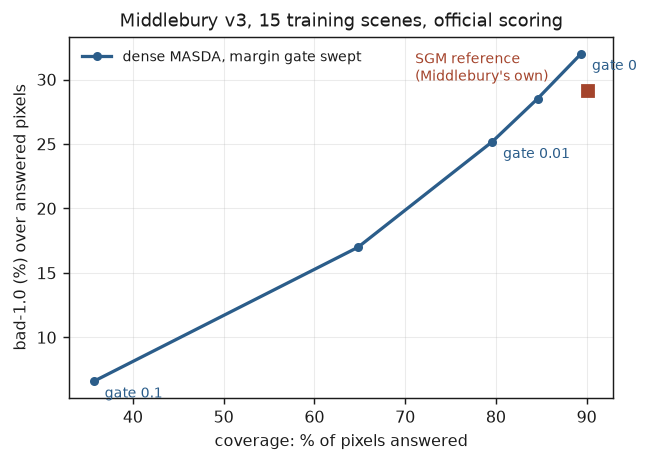
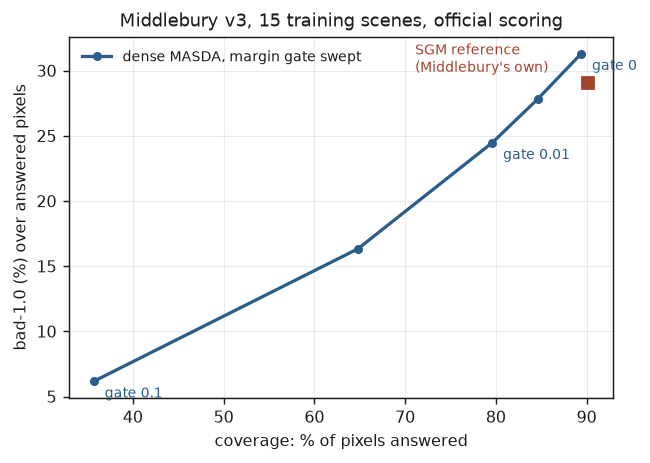
posts: the equiangular fit, the error budget, and thumbnails two orders smaller
THUMBNAILS. The index page was fetching the full-resolution figures -- 604 KB, 517 KB
and 284 KB -- and downscaling them in the browser, ~1.4 MB for three cards. Each post
now points at a dedicated 420 px quantised thumbnail: 52 KB, 33 KB and 11 KB. Also
removed ten orphaned images the rewrite had left behind (~4.3 MB), which were no
longer referenced by any post.

PART 2 gains the two results that moved since it was written.

The sub-pixel section now covers the ESTIMATOR, not just the existence of a fit. A
parabola assumes the cost is locally quadratic; the graded score's truncated absolute
difference is piecewise linear, so the surface around the winner is a V. The
equiangular estimator is the same arithmetic:

  parabola                       25.18 bad-1.0, 79.6% coverage
  equiangular (now default)      24.47           79.6%
  equiangular, Census only       23.75           79.8%

And a new section 6 itemises where a far-field pixel is lost, from the aggregated cost
volume: descriptor 10.8%, selector 13.1%, pruning 8.2%, fit 8.5%, gate 2.1%. With the
figure. Plus the note that Teddy alone inverts that ordering, because its cost is much
better than average -- one scene is not a benchmark.

Section 7 gains the descriptor screen: halving the descriptor to 24 bits lowers the
error rate by 0.5 and costs 3.7 points of coverage, which is the same trade every
other knob offers, so a 9x7 window is not worth building and the 10.8% is not a bits
[…]

diff --git a/_posts/2026-08-08-Dense-MASDA-Belief-Propagation-Stereo-on-a-Jetson.md b/_posts/2026-08-08-Dense-MASDA-Belief-Propagation-Stereo-on-a-Jetson.md
@@ -2,7 +2,7 @@
 layout: post
 title: 'Dense Stereo Matching with Max-Sum Belief Propagation on a Jetson TX2 (MASDA, Part 2)'
 subtitle: 'The dense matcher end to end: why the cost volume is never built, what sub-pixel disparity is worth, which parameters do nothing, and the ablation that says the message passing is not what makes this work.'
-thumbnail-img: /assets/img/2026-08-08-Dense-MASDA_files/maps_a.png
+thumbnail-img: /assets/img/2026-08-08-Dense-MASDA_files/thumb_p2.png
 date: '2026-08-08 22:00:00 +0200'
 categories: association
 comments: false
@@ -39,7 +39,7 @@ scenes under the benchmark's own scoring rules:
 
 | | [bad-1.0][gl-metrics] | [coverage][gl-metrics] |
 |---|---|---|
-| **dense MASDA** | **25.2%** | 79.6% |
+| **dense MASDA** | **24.5%** | 79.6% |
 | Middlebury's [SGM][gl-sgm] reference | 29.1% | 90.2% |
 
 Ahead on the error rate over answered pixels, ten points behind on how many pixels
@@ -75,7 +75,7 @@ never exists:
 The insert's common case is a rejection that reads one cached plane, so the whole
 stage is a single streaming pass over the scored planes. Removing the volume measured
 **1.9× end to end**, and it is also what made the accuracy work possible: every
-parameter in section 6 was swept on a pipeline fast enough to iterate on.
+parameter in section 7 was swept on a pipeline fast enough to iterate on.
 
 Three structural properties fall out of this design and matter later:
 
@@ -85,7 +85,7 @@ Three structural properties fall out of this design and matter later:
   reduction.
 - **The aggregation needs whole constant-disparity planes.** The recursive filter runs
   across the image at one disparity. This constraint decides the outcome of two
-  separate experiments in section 8, and it is the single most consequential property
+  separate experiments in section 9, and it is the single most consequential property
   of the design.
 
 ## 2. Sub-pixel disparity: the largest accuracy result in the project
@@ -108,8 +108,25 @@ however right it is. The matcher's own integer output measured 41.5%, which is c
 to that 45.6% ceiling: the matching was already good, and the output format was
 throwing it away.
 
-With the fit: **41.5% → 25.2%, at coverage that does not move** — 16.3 points. The fit changes
-values, never decisions.
+With the fit: **41.5% → 24.5%, at coverage that does not move** — 17 points. The fit
+changes values, never decisions.
+
+**The estimator matters as much as having one.** The obvious choice is a parabola
+through the three samples, and it is the wrong shape for this cost. The graded score
+blends Census with a *truncated absolute difference*, which is piecewise linear, so
+the surface around the winner is locally a **V** rather than a bowl. The equiangular
+estimator — the standard one for a V — is the same arithmetic and no extra memory:
+
+| estimator | bad-1.0 | coverage |
+|---|---|---|
+| parabola | 25.18 | 79.6% |
+| **equiangular** | **24.47** | 79.6% |
+| equiangular, Census only (`--ad 0`) | **23.75** | 79.8% |
+
+0.71 points for one line. The third row says the absolute-difference term still costs
+0.72 even with the right estimator, so this is not purely an estimator mismatch —
+fitting on the Census term while *selecting* on the graded cost would collect the
+rest, at the price of a second filtered plane. Not built.
 
 Two things about the implementation are worth the space.
 
@@ -172,7 +189,7 @@ either no ground truth, or the margin gate declining to commit:
 The error column is the interesting one. The residual error is at depth
 discontinuities and in [repetitive texture][gl-ambiguity], which is where Part 1's
 ambiguity analysis predicted every matcher loses — including the exact assignment
-solver. Section 8 measures exactly how much of the total error lives near
+solver. Section 6 measures exactly how much of the total error lives near
 discontinuities, because it turns out to decide whether a whole family of improvements
 is worth building.
 
@@ -209,7 +226,43 @@ already claimed, retry its second candidate instead of dropping the pixel — an
 measured coverage 80.1% → 80.3% for error 26.0% → 26.3%. It pays for what it recovers.
 Reverted.
 
-## 6. What the parameters are worth
+## 6. Where a pixel is actually lost
+
+A single error rate says how often the matcher is wrong, not which component was
+wrong. Dumping the aggregated cost volume and asking where the true disparity *ranks*
+splits it. Over the 2.35 million far-field pixels — those nowhere near a depth
+discontinuity, which carry 71% of all error:
+
+![budget](/assets/img/2026-08-08-Dense-MASDA_files/budget.png)
+
+| a candidate within 0.5 px of the truth | top-1 | top-2 | top-4 | top-8 |
+|---|---|---|---|---|
+| far field | 67.9% | 81.0% | 85.8% | 89.2% |
+| near a discontinuity | 58.8% | 75.7% | 84.6% | 90.1% |
+
+Half a pixel is the threshold that matters, because a candidate that close is the
+nearest integer to the truth and the sub-pixel fit can still reach the answer. A
+candidate a full pixel away cannot be refined into a correct one.
+
+Reading the bill:
+
+- **The descriptor is the largest single item.** 10.8% of far-field pixels have no
+  candidate within half a pixel *anywhere in the top eight* — unreachable by any
+  solver on this cost volume — and 19.0% are unreachable without keeping more than
+  two candidates.
+- **13.1% is the selector's.** The truth is in the top-2 and the top-1 was taken.
+  That is the one component with a clear mandate and no mechanism currently
+  collecting it: section 7 shows that neither winner-take-all nor message passing
+  gets it.
+- **8.5% is the fit**, on pixels whose integer was already right.
+
+One methodological note, because it changed the answer. Run on Teddy alone, this
+table says the fit is dominant and the descriptor is nearly free — Teddy's cost is
+much better than average, 92.8% top-1 in the far field against 67.9% pooled. The
+fifteen-scene number *inverts* the ordering. One scene is not a benchmark, and this
+is the cleanest demonstration of that in the project.
+
+## 7. What the parameters are worth
 
 Every parameter in the matcher, swept on the fifteen v3 scenes at the shipping
 configuration. Some of these had never been measured, and one of them had never been
@@ -223,6 +276,9 @@ inherited a value:
 |---|---|---|---|---|---|
 | bad-1.0 | 24.98 | **25.18** | 25.61 | 26.17 | 28.32 |
 | coverage | 79.9% | 79.6% | 79.3% | 78.9% | 77.8% |
+
+*(This sweep and the two below predate the equiangular estimator, so their absolute
+values sit 0.7 above the current operating point. The shapes are what they are for.)*
 
 Better on *both* axes at 6–8 than at 12, and free: the filter is an IIR whose cost does
 not depend on $$\sigma$$. Now 8. This is the cheapest 0.9 points in the project and it
@@ -263,7 +319,33 @@ almost never fires. Above zero they work — and what they do is trade coverage 
 precision at roughly the same exchange rate as the margin gate, which is to say they
 are a second gate rather than a second mechanism.
 
-## 7. The ablation: the message passing is not what makes this work
+**Descriptor size trades, it does not improve.** The obvious response to a 10.8%
+descriptor bill is a bigger descriptor — the Census window is a template and 9×7 is 62
+bits, which still fits a `uint64`. Before touching fifteen border literals in the cost
+loops and the CUDA census kernel, the direction was priced on the axis already wired.
+`--csct` is the same Census at 24 bits instead of 48:
+
+| | bad-1.0 | coverage |
+|---|---|---|
+| 7×7 Census, 48 bit | 25.18 | 79.6% |
+| centre-symmetric, 24 bit | **24.68** | 75.9% |
+
+Halving the descriptor *lowers* the error rate by 0.5 and costs 3.7 points of
+coverage. That is the same precision–coverage trade every other knob offers — not a
+better or worse descriptor, a differently-gated one. If 24 fewer bits only slides
+along the curve, 14 more will too, so 9×7 is not worth building.
+
+Which sharpens what that 10.8% is: **not a bits problem.** More of the same descriptor
+will not collect it. It is a limit of Census-plus-truncated-difference as a similarity
+measure on weakly textured and repetitive surfaces, and changing that means changing
+the similarity function itself.
+
+**And one flag does nothing at all.** `--agg`, the aggregation radius, produces
+identical output at 3, 7 and its default, because the recursive filter ignores it. It
+survives as a flag because an older box-filter path read it. Worth stating rather than
+leaving for someone to sweep.
+
+## 8. The ablation: the message passing is not what makes this work
 
 The matcher is named after an inference algorithm, so the obvious question is what that
 inference contributes. Disabling the message passing leaves everything else in place —
@@ -300,7 +382,7 @@ many candidates on deliberately ambiguous projected-dot texture, and temporal
 association — where the candidate set is genuinely large and two-dimensional — has not
 been tested. Message passing is off by default in the dense path and one flag away.
 
-## 8. What did not work, and why
+## 9. What did not work, and why
 
 Four families of improvement were measured and declined. Each was priced before it was
 built, which is the only reason the list is short.
@@ -356,7 +438,7 @@ no more precise than MASDA on identical candidates, so the inference is not what
 the outcome. **The candidate set is.** What you offer the solver matters more than how
 cleverly you restrict it, and both of these experiments restricted it cleverly.
 
-## 9. Where this leaves the CPU implementation
+## 10. Where this leaves the CPU implementation
 
 At the camera's 848×480 the CPU matcher is a 5 Hz matcher, and the solve — the part
 that is MASDA — is memory-bound rather than arithmetic-bound. Two structural properties
@@ -378,12 +460,16 @@ rules, each paid for:
    worth 1.24× on the desktop and flat on the Jetson.
 2. **The benchmark decides what you can see.** Sub-pixel disparity was a recorded
    negative for months because the benchmark in use could not resolve it.
-3. **Check that a default change is live before measuring it.** A header was listed as
-   a prerequisite in one build rule and not the other, so a header-only change relinked
-   nothing, `make` printed success, and a fifteen-scene benchmark measured the old
-   value and reported it as the new one. What caught it was the result coming back
-   *exactly* equal to the previous figure. A slightly different one would have been
-   believed.
+3. **Check that a default change is live before measuring it — twice over.** A header
+   was listed as a prerequisite in one build rule and not the other, so a header-only
+   change relinked nothing, `make` printed success, and a fifteen-scene benchmark
+   measured the old value and reported it as the new one. Then both benchmark harnesses
+   turned out to pass `--iters` with values of their own, silently overriding the
+   binary's default — so "the default configuration" had for weeks meant *the
+   harness's* opinion, and a default change read as no change whatsoever. Both were
+   caught by a number coming back **exactly** equal to a figure that should have moved.
+   An unchanged measurement is a weaker signal than an error, and a slightly different
+   one would have been believed.
 
 ---
 

diff --git a/_posts/2026-08-09-Realtime-Dense-MASDA-on-the-Jetson-GPU.md b/_posts/2026-08-09-Realtime-Dense-MASDA-on-the-Jetson-GPU.md
@@ -2,7 +2,7 @@
 layout: post
 title: 'Real-Time Dense Stereo on a Jetson TX2 (MASDA, Part 3)'
 subtitle: 'The GPU takes the image plane, the CPU keeps the graph: kernel dataflow, the memory layout the CPU rejected three times, bit-identity as the referee, and what the board delivers at each resolution.'
-thumbnail-img: /assets/img/2026-08-09-Realtime-Dense-MASDA_files/real_pair.png
+thumbnail-img: /assets/img/2026-08-09-Realtime-Dense-MASDA_files/thumb_p3.png
 date: '2026-08-09 01:00:00 +0200'
 categories: association
 comments: false
@@ -112,7 +112,7 @@ never materialised at all. What remains in DRAM is the minimum the data dependen
 allow — the recurrences genuinely need their intermediate planes.
 
 **The sub-pixel fit rides along for free here.** [Part 2][p2] describes the fit and what
-it is worth: 41.5% → 25.2% bad-1.0. On the CPU it costs 1.30×, because the two
+it is worth: 41.5% → 24.5% bad-1.0. On the CPU it costs 1.30×, because the two
 neighbouring costs have to be retained while streaming planes. On the GPU they are
 already in registers: the top-2 reduction has the whole disparity range of a pixel live
 across the warp at the moment the winner is known, so publishing the winner takes one
@@ -275,10 +275,25 @@ a dedicated sparse matcher produced.
 
 What is genuinely unfinished:
 
-- **Coverage.** 80% of pixels answered at the shipping gate against [SGM's][gl-sgm] 90%, and
-  Part 2's [curve][gl-metrics] shows SGM's whole curve sitting below this one where they overlap. No
-  parameter closes that; the levers that would are structural and were measured and
-  declined.
+- **Coverage.** 80% of pixels answered at the shipping gate against [SGM's][gl-sgm] 90%,
+  and Part 2's [curve][gl-metrics] shows SGM's curve sitting below this one where they
+  overlap — by about two points at matched coverage, down from three before the
+  equiangular estimator. No parameter closes it; the levers that would are structural
+  and were measured and declined.
+- **The descriptor, which is the largest single item in the error budget.** 10.8% of
+  far-field pixels have no candidate within half a pixel anywhere in the top eight, so
+  no solver on this cost volume can reach them. Part 2 measures that a *bigger* Census
+  descriptor only trades along the precision–coverage curve, which means the gap is in
+  the similarity function rather than in its resolution. That is the one place this
+  design is beaten by the learned costs the top of the Middlebury table runs on, and
+  it is deliberately out of scope here: the GPU is at 96% of the frame budget and
+  nothing neural fits behind it.
+- **The selector.** 13.1% of far-field pixels have the truth sitting in the top-2 with
+  the top-1 taken. Neither winner-take-all nor MASDA's message passing collects it —
+  they measure within a point of each other — so this is a real mandate with no
+  mechanism currently addressing it. With two candidates it is a binary choice per
+  pixel, and the one thing that has never been tried on it is a term that couples
+  neighbouring pixels *across* rows. MASDA's uniqueness runs along a row only.
 - **Occlusion.** Pixels within 8 px of a depth discontinuity carry 28.6% of all error,
   and neither a sharper edge-aware filter nor a wider candidate set moves them. What is
   left is half-occlusion — support that has no counterpart in the other image — which

diff --git a/_posts/2026-08-07-MASDA-for-Sparse-Stereo-Matching.md b/_posts/2026-08-07-MASDA-for-Sparse-Stereo-Matching.md
@@ -2,7 +2,7 @@
 layout: post
 title: 'Dense Stereo Matching with Max-Sum Belief Propagation on Sparse Matrices (MASDA)'
 subtitle: 'The one-to-one constraint applied to every pixel: what uniqueness buys over winner-take-all, how much of that the message passing is actually responsible for, how close loopy max-sum gets to the exact assignment optimum, and why the sparse-matrix representation decides everything.'
-thumbnail-img: /assets/img/2026-08-08-Dense-MASDA_files/maps_teddy.png
+thumbnail-img: /assets/img/2026-08-08-Dense-MASDA_files/thumb_p1.png
 date: '2026-08-07 19:00:00 +0200'
 categories: association
 comments: false
@@ -416,7 +416,7 @@ measured over 1.3 million answers.
 
 For the full engineered pipeline (the C++ implementation with its
 [margin gate](/masda-glossary/#margin-and-the-margin-gate),
-which trades a little coverage for precision), [Part 2][p2] measures **25.2%
+which trades a little coverage for precision), [Part 2][p2] measures **24.5%
 [bad-1.0](/masda-glossary/#coverage-precision-and-the-bad-pixel-rate) at 79.6%
 [coverage](/masda-glossary/#coverage-precision-and-the-bad-pixel-rate)** on the fifteen
 Middlebury v3 training scenes, against the benchmark's own
@@ -671,8 +671,9 @@ along scanline paths and has **no uniqueness constraint at all** — a
 afterwards, which costs a second matcher run.
 MASDA gets mutual exclusivity inside the inference, in one run, plus a per-pixel
 confidence (the [margin](/masda-glossary/#margin-and-the-margin-gate)) as a by-product. Measured head-to-head in Part 2:
-**9.7% bad-1.0 against SGM's 10.9%** over these eight scenes, at 76% against 78%
-coverage. The two mechanisms are orthogonal, and the interesting object — a
+**9.2% bad-1.0 against OpenCV SGM's 10.9%** over these eight scenes at native
+resolution, at 76% against 78% coverage — and behind Middlebury's own SGM reference on
+the harder v3 set, where the two curves cross the other way. The two mechanisms are orthogonal, and the interesting object — a
 factor graph with both uniqueness and path smoothness — does not exist in either
 tool today.
 
@@ -751,7 +752,7 @@ interesting object this formulation makes possible.
 **[Sub-pixel disparity](/masda-glossary/#sub-pixel-disparity) — since built, and it was the
 largest accuracy result in the project.** The candidates are integer, which forfeits up
 to half a pixel before any matching error. A parabola through the aggregated cost at
-the winner and its two neighbours took the engineered matcher from 41.5% to 25.2%
+the winner and its two neighbours took the engineered matcher from 41.5% to 24.5%
 bad-1.0 at unchanged coverage. [Part 2][p2] has the construction and the reason it
 went unmeasured for so long: the benchmark in use could not resolve it.
 
